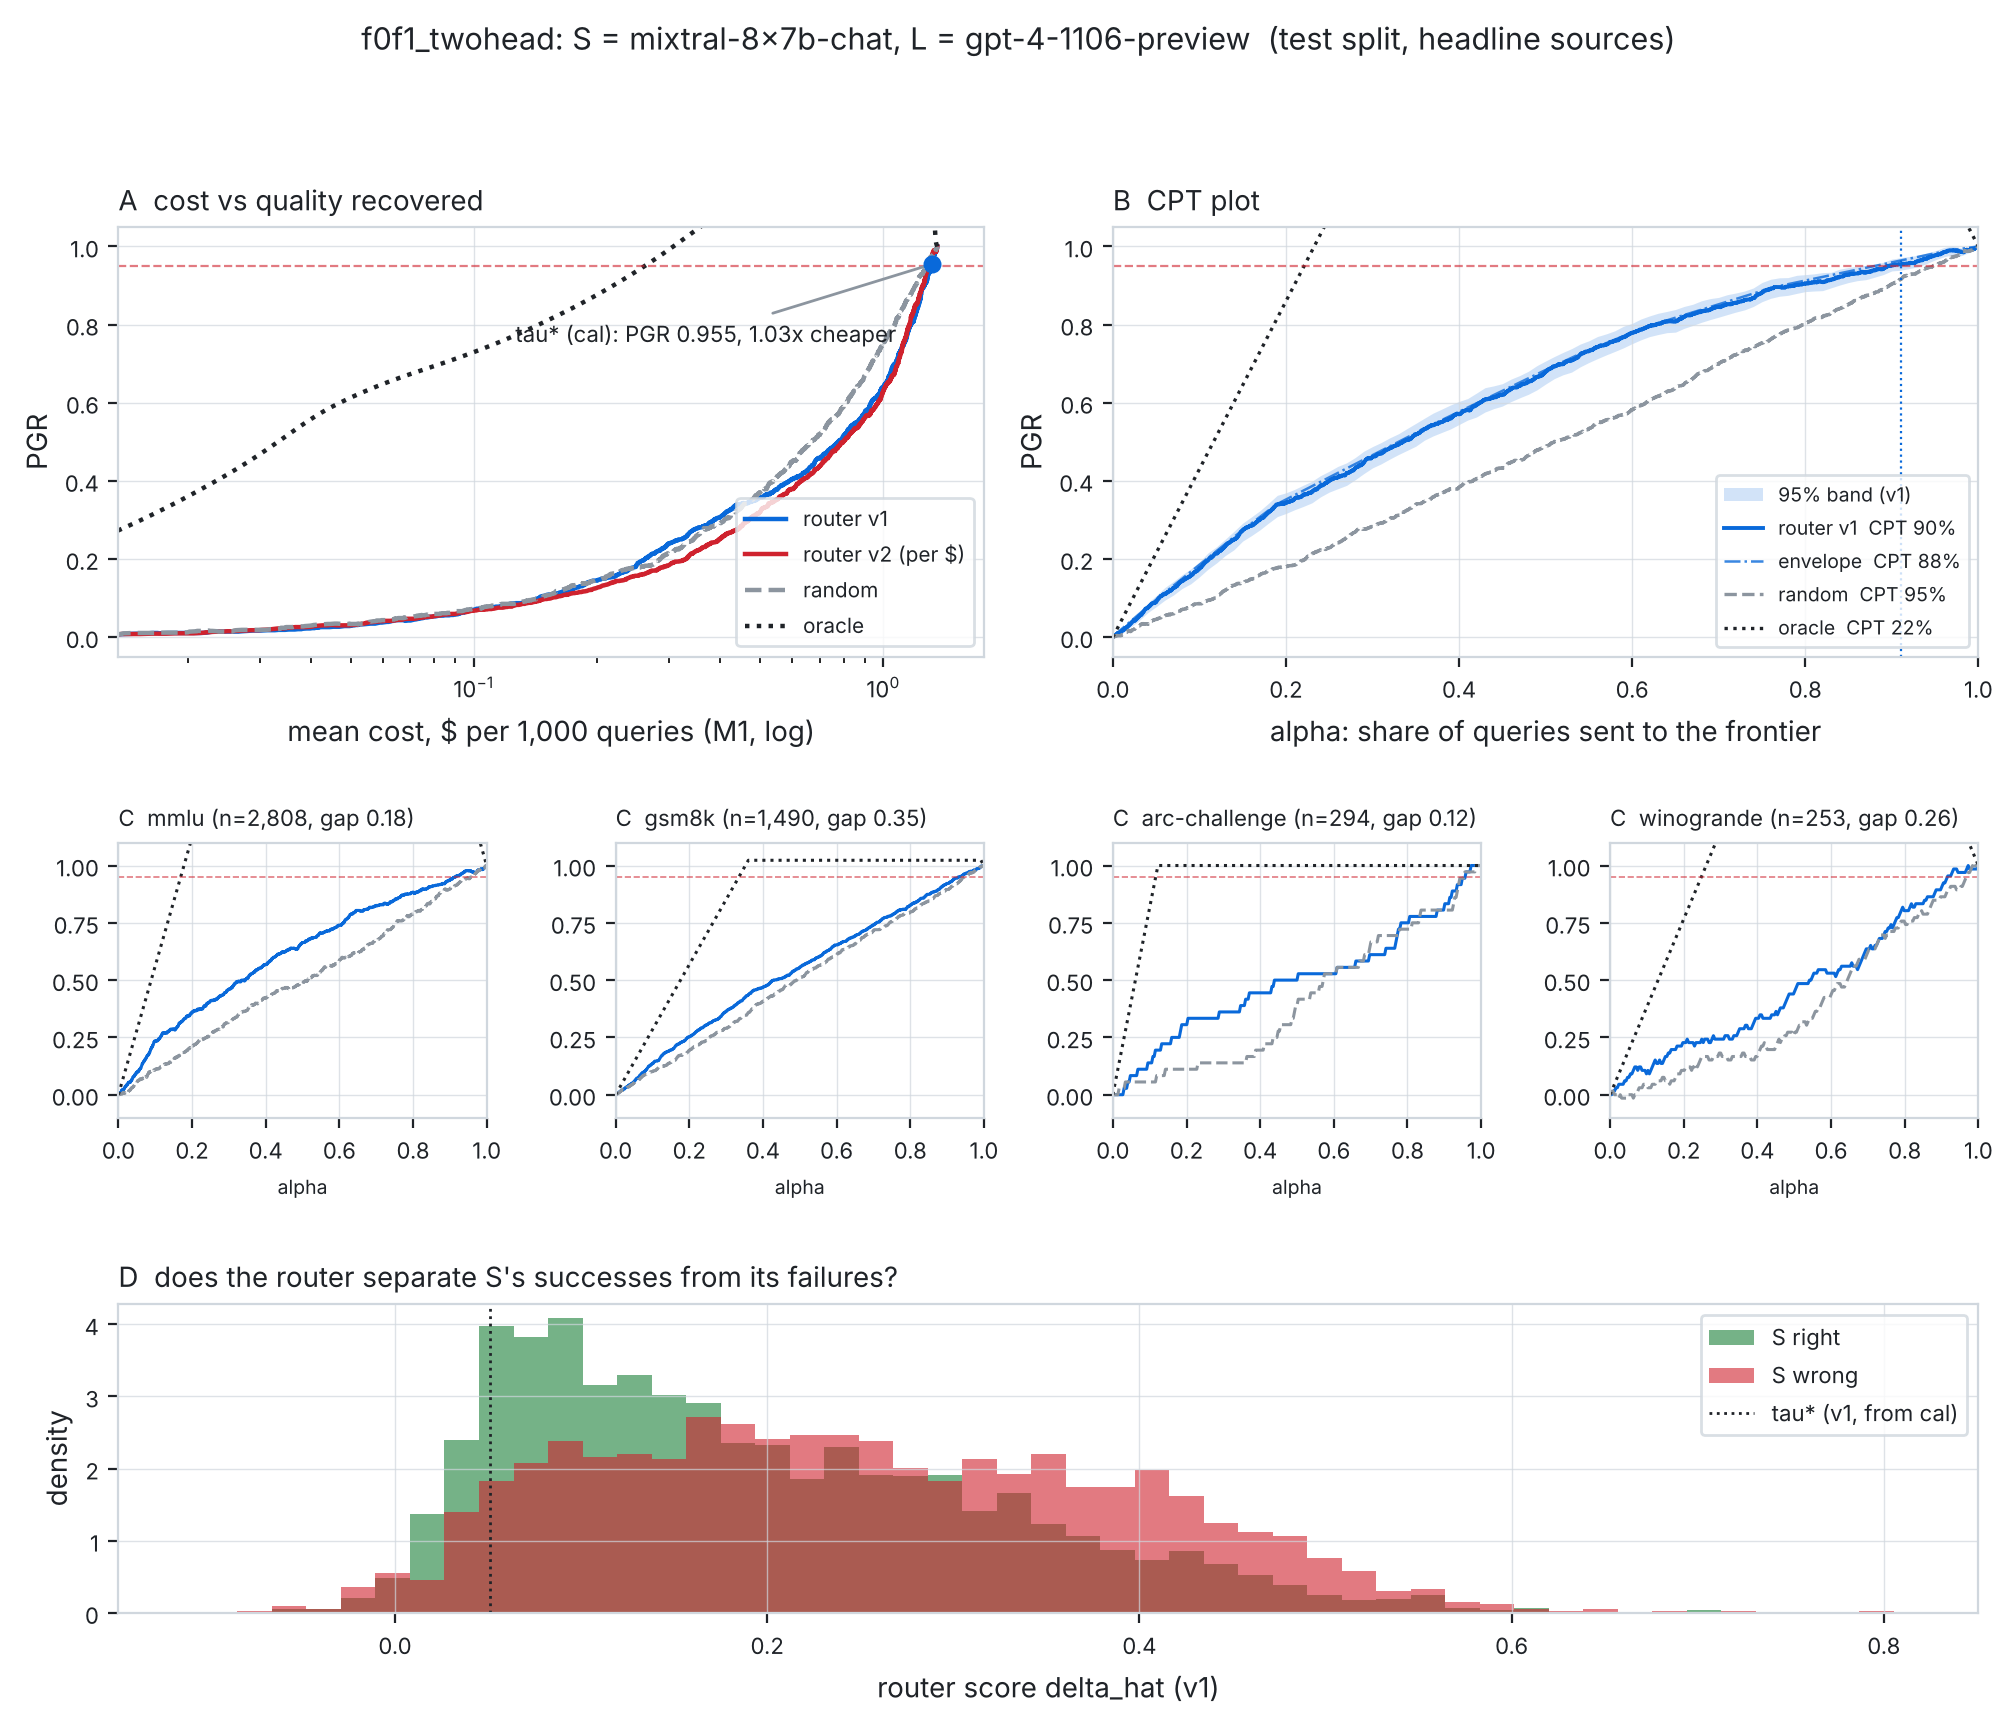
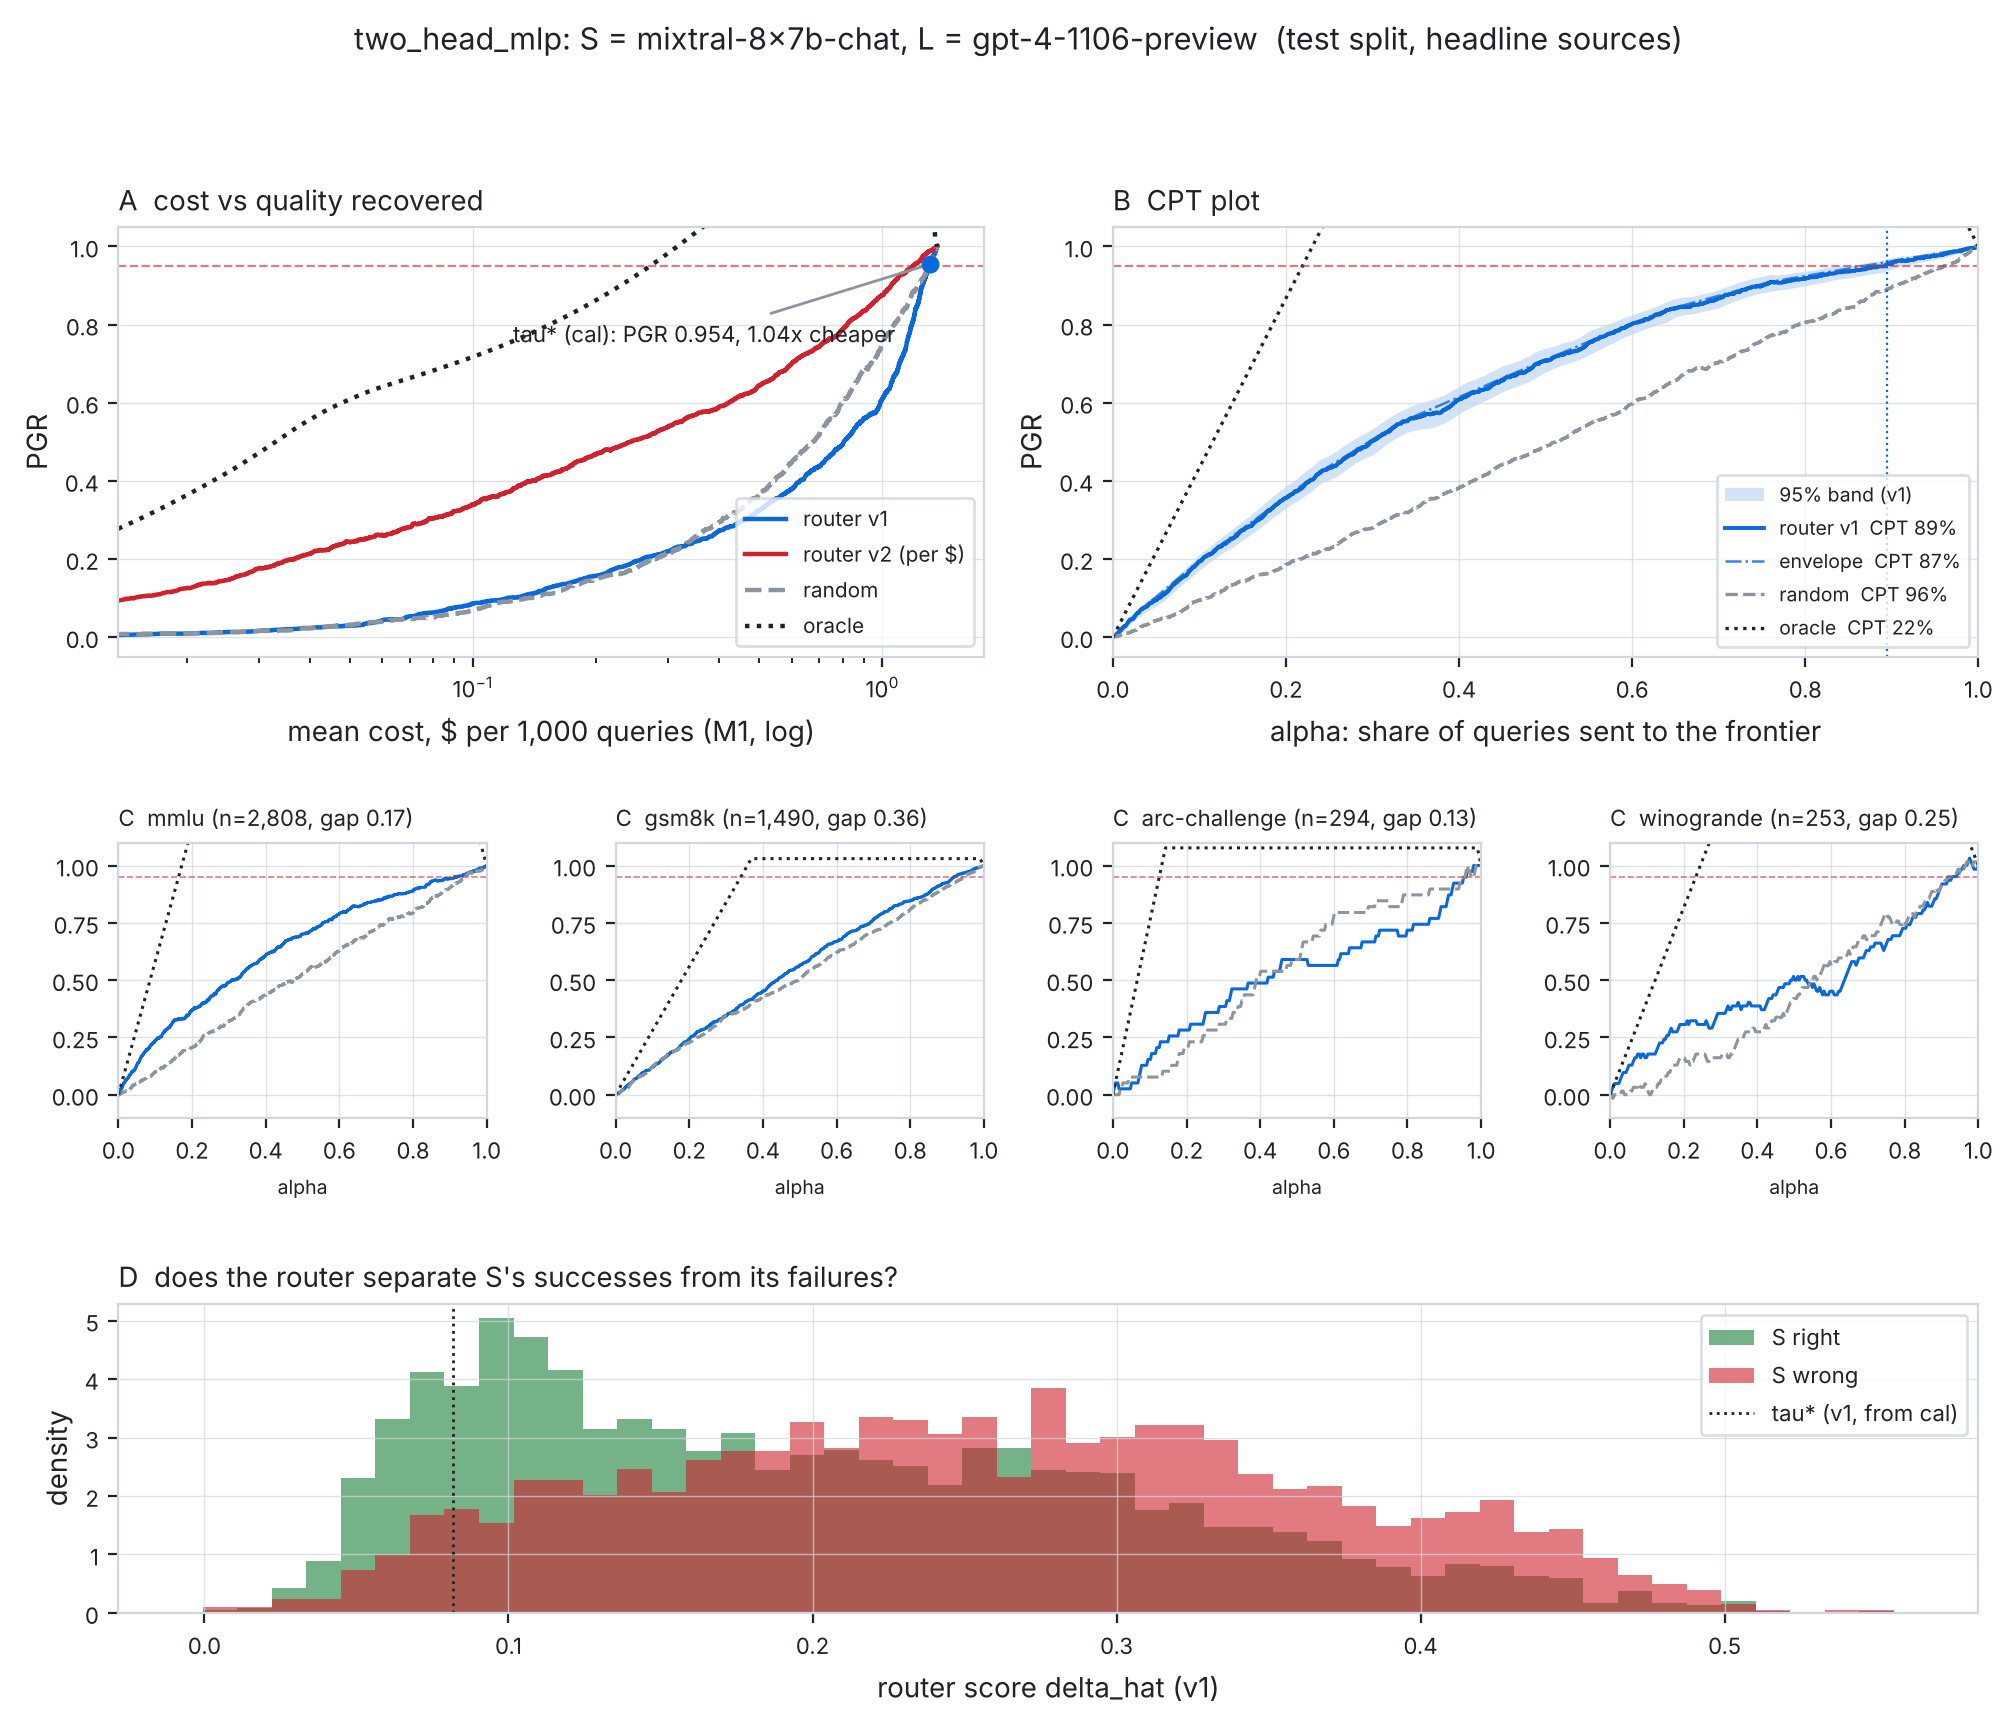
Interim results on frozen splits: F0/F1 baselines and B's F2 two-head (Mixtral pair); report handles prediction files without train rows

diff --git a/scripts/08_threshold_report.py b/scripts/08_threshold_report.py
@@ -61,8 +61,11 @@ def load_frame(pred_path, corpus_path, scores_path, small, large, cost_model="M1
 
 def report_one(df: pd.DataFrame, rule: str, rho: float, delta: float, B: int, seed: int) -> dict:
     tr, ca, te = (df[df["split"] == s] for s in ("train", "cal", "test"))
-    grid = th.threshold_grid(tr[rule].to_numpy(), n=1000)
-    out = {"rule": rule, "n_cal": len(ca), "n_test": len(te), "selections": {}}
+    if len(tr):
+        grid, grid_from = th.threshold_grid(tr[rule].to_numpy(), n=1000), "train"
+    else:   # predictions file has no train rows: fall back to cal's own breakpoints (say so in the report)
+        grid, grid_from = th.breakpoints(ca[rule].to_numpy()), "cal (no train predictions; data-dependent grid)"
+    out = {"rule": rule, "n_cal": len(ca), "n_test": len(te), "grid_from": grid_from, "selections": {}}
     for method in METHODS:
         sel = th.select_tau(ca[rule].to_numpy(), ca["s_S"].to_numpy(), ca["s_L"].to_numpy(), taus=grid,
                             rho=rho, delta=delta, method=method, B=B, seed=seed)
@@ -129,10 +132,14 @@ def to_markdown(rep: dict) -> str:
         for rule in r["rules"]:
             for m, s in rule["selections"].items():
                 t1 = s["test"]["M1"]
-                L.append(f"| {r['router']} | {rule['rule']} | {m} | {'yes' if s['certified'] else 'no'} | "
+                flag = "" if rule.get("grid_from", "train") == "train" else " †"
+                L.append(f"| {r['router']}{flag} | {rule['rule']} | {m} | {'yes' if s['certified'] else 'no'} | "
                          f"{pct(s['cal']['alpha'])} | {pct(t1['alpha'])} | {pct(t1['pgr'])} {ci(t1['ci']['pgr'])} | "
                          f"{pct(t1['savings'])} {ci(t1['ci']['savings'])} | {pct(s['test']['savings_vs_batch'])} | "
                          f"{pct(s['test']['M2']['savings'])} |")
+    if any(rr.get("grid_from", "train") != "train" for r in rep["routers"] for rr in r["rules"]):
+        L.append("\n† No train-split predictions in the file, so the threshold grid came from cal itself. "
+                 "Learn-then-Test is then only approximately valid; write train predictions to fix it.")
     L.append("\n## Test-split curves (no tau selection; for comparing routers)\n")
     L.append("| Router | Rule | CPT(95%) | Envelope CPT(95%) | APGR | Savings at CPT |")
     L.append("|---|---|--:|--:|--:|--:|")

diff --git a/notes/threshold_report.md b/notes/threshold_report.md
@@ -1,64 +1,76 @@
 # Threshold selection and guarantees (T22-T24)
 
-*Generated 2026-10-22 12:46 UTC by `scripts/08_threshold_report.py` from `artifacts/predictions/baselines.parquet`.*
+*Generated 2026-10-22 16:11 UTC by `scripts/08_threshold_report.py` from `artifacts/predictions/all_interim.parquet`.*
 
 Pair: S = `mistralai/mixtral-8x7b-chat`, L = `gpt-4-1106-preview`. Target PGR ≥ 0.95, δ = 0.05. tau* chosen on **cal** only; every test number below is one application of a frozen tau*.
 
 > **INTERIM.** F0/F1 routers only (no embeddings yet) and provisional splits (the embedding dedup pass has not run). The pipeline is final; the numbers are not. Re-run after T04 + F2.
 
-References on the headline test set: random CPT(95%) = 94.8%, APGR 0.492; oracle CPT(95%) = 22.1%, APGR 0.984.
+References on the headline test set: random CPT(95%) = 96.1%, APGR 0.493; oracle CPT(95%) = 21.9%, APGR 0.985.
 
 ## Headline: tau* from cal, applied once to test (MMLU, GSM8K, ARC, Winogrande)
 
 | Router | Rule | Bound | Certified | α cal | α test | PGR test [95% CI] | Savings M1 [CI] | vs Batch | Savings M2 |
 |---|---|---|:-:|--:|--:|--:|--:|--:|--:|
-| f0_logreg | v1 | wsr | yes | 91.2% | 91.8% | 96.2% [94.8, 97.5] | 3.7% [3.3, 4.2] | -92.5% | 3.6% |
-| f0_logreg | v1 | bootstrap | yes | 91.4% | 92.1% | 96.4% [95.0, 97.7] | 3.7% [3.2, 4.1] | -92.6% | 3.6% |
-| f0_logreg | v1 | hoeffding | yes | 94.9% | 95.6% | 98.1% [97.2, 99.2] | 2.8% [2.4, 3.3] | -94.3% | 2.7% |
-| f0_logreg | v1 | naive | yes | 89.7% | 90.2% | 95.7% [94.2, 97.2] | 4.1% [3.6, 4.6] | -91.8% | 4.0% |
-| f0_logreg | v2 | wsr | yes | 93.4% | 92.9% | 97.5% [96.4, 98.7] | 1.1% [1.0, 1.3] | -97.7% | 1.1% |
-| f0_logreg | v2 | bootstrap | yes | 92.5% | 92.1% | 97.2% [96.1, 98.5] | 1.3% [1.2, 1.4] | -97.4% | 1.2% |
-| f0_logreg | v2 | hoeffding | yes | 95.5% | 95.1% | 98.1% [97.2, 99.2] | 0.8% [0.7, 0.9] | -98.5% | 0.7% |
-| f0_logreg | v2 | naive | yes | 90.0% | 89.7% | 95.7% [94.2, 97.2] | 1.7% [1.6, 1.9] | -96.6% | 1.6% |
-| f0f1_twohead | v1 | wsr | yes | 90.4% | 91.1% | 95.5% [94.0, 96.9] | 2.9% [2.6, 3.3] | -94.1% | 2.8% |
-| f0f1_twohead | v1 | bootstrap | yes | 89.8% | 90.7% | 95.4% [93.9, 96.8] | 3.0% [2.7, 3.4] | -93.9% | 2.9% |
-| f0f1_twohead | v1 | hoeffding | yes | 95.3% | 95.5% | 98.0% [96.8, 99.1] | 1.5% [1.3, 1.8] | -96.9% | 1.5% |
-| f0f1_twohead | v1 | naive | yes | 86.5% | 87.4% | 93.6% [91.8, 95.2] | 4.1% [3.7, 4.6] | -91.8% | 4.0% |
-| f0f1_twohead | v2 | wsr | yes | 91.3% | 91.7% | 95.9% [94.3, 97.3] | 3.9% [3.5, 4.5] | -92.2% | 3.8% |
-| f0f1_twohead | v2 | bootstrap | yes | 89.6% | 90.1% | 95.2% [93.4, 96.9] | 4.6% [4.1, 5.2] | -90.9% | 4.4% |
-| f0f1_twohead | v2 | hoeffding | yes | 94.5% | 94.9% | 98.3% [97.2, 99.5] | 2.5% [2.1, 2.9] | -95.0% | 2.4% |
-| f0f1_twohead | v2 | naive | yes | 87.4% | 87.7% | 93.7% [91.9, 95.2] | 5.5% [5.0, 6.2] | -89.0% | 5.3% |
-| f1_logreg | v1 | wsr | yes | 91.7% | 91.7% | 96.7% [95.3, 98.0] | 2.9% [2.5, 3.3] | -94.2% | 2.8% |
-| f1_logreg | v1 | bootstrap | yes | 90.8% | 90.9% | 96.3% [94.8, 97.7] | 3.1% [2.8, 3.5] | -93.8% | 3.0% |
-| f1_logreg | v1 | hoeffding | yes | 95.9% | 96.1% | 98.6% [97.8, 99.3] | 1.5% [1.2, 1.7] | -97.1% | 1.4% |
-| f1_logreg | v1 | naive | yes | 87.7% | 88.0% | 94.7% [92.9, 96.3] | 4.3% [3.9, 4.9] | -91.3% | 4.2% |
-| f1_logreg | v2 | wsr | yes | 93.9% | 93.9% | 97.4% [96.3, 98.5] | 2.2% [1.7, 2.8] | -95.5% | 2.1% |
-| f1_logreg | v2 | bootstrap | yes | 92.6% | 92.6% | 96.2% [95.0, 97.3] | 2.8% [2.2, 3.5] | -94.4% | 2.7% |
-| f1_logreg | v2 | hoeffding | yes | 96.6% | 96.2% | 98.9% [98.2, 99.6] | 1.3% [0.9, 1.6] | -97.5% | 1.2% |
-| f1_logreg | v2 | naive | yes | 91.0% | 90.8% | 95.4% [94.0, 96.7] | 3.4% [2.8, 4.2] | -93.1% | 3.3% |
+| f0_logreg | v1 | wsr | yes | 91.4% | 91.0% | 96.6% [95.3, 97.8] | 3.9% [3.4, 4.4] | -92.2% | 3.8% |
+| f0_logreg | v1 | bootstrap | yes | 90.2% | 89.9% | 95.9% [94.5, 97.2] | 4.1% [3.7, 4.6] | -91.7% | 4.0% |
+| f0_logreg | v1 | hoeffding | yes | 95.4% | 94.6% | 98.0% [97.1, 99.0] | 3.0% [2.5, 3.4] | -94.1% | 2.9% |
+| f0_logreg | v1 | naive | yes | 87.2% | 86.6% | 95.3% [93.7, 96.7] | 4.9% [4.4, 5.4] | -90.3% | 4.7% |
+| f0_logreg | v2 | wsr | yes | 92.3% | 92.0% | 97.0% [95.8, 98.0] | 1.3% [1.2, 1.5] | -97.3% | 1.3% |
+| f0_logreg | v2 | bootstrap | yes | 89.5% | 89.5% | 95.8% [94.3, 97.0] | 1.8% [1.6, 1.9] | -96.5% | 1.7% |
+| f0_logreg | v2 | hoeffding | yes | 95.2% | 94.7% | 98.6% [97.7, 99.4] | 0.9% [0.7, 1.0] | -98.3% | 0.8% |
+| f0_logreg | v2 | naive | yes | 88.5% | 88.8% | 95.4% [93.9, 96.7] | 1.9% [1.7, 2.1] | -96.2% | 1.8% |
+| f0f1_twohead | v1 | wsr | yes | 93.0% | 93.2% | 96.8% [95.4, 98.2] | 2.3% [2.0, 2.7] | -95.3% | 2.3% |
+| f0f1_twohead | v1 | bootstrap | yes | 93.6% | 93.6% | 96.6% [95.3, 98.0] | 2.2% [1.9, 2.5] | -95.6% | 2.1% |
+| f0f1_twohead | v1 | hoeffding | yes | 96.8% | 96.4% | 97.9% [96.8, 99.0] | 1.3% [1.1, 1.6] | -97.4% | 1.3% |
+| f0f1_twohead | v1 | naive | yes | 91.5% | 91.5% | 96.0% [94.5, 97.6] | 2.9% [2.6, 3.3] | -94.2% | 2.8% |
+| f0f1_twohead | v2 | wsr | yes | 94.9% | 93.8% | 95.7% [94.2, 97.1] | 3.7% [3.2, 4.1] | -92.7% | 3.5% |
+| f0f1_twohead | v2 | bootstrap | yes | 93.6% | 92.5% | 95.3% [93.9, 96.9] | 4.3% [3.8, 4.8] | -91.4% | 4.1% |
+| f0f1_twohead | v2 | hoeffding | yes | 96.8% | 96.3% | 98.0% [96.9, 99.1] | 2.3% [1.9, 2.7] | -95.4% | 2.2% |
+| f0f1_twohead | v2 | naive | yes | 90.4% | 89.8% | 94.3% [92.6, 96.1] | 5.3% [4.7, 5.8] | -89.5% | 5.1% |
+| f1_logreg | v1 | wsr | yes | 91.7% | 91.7% | 96.9% [95.5, 98.1] | 2.7% [2.3, 3.0] | -94.7% | 2.6% |
+| f1_logreg | v1 | bootstrap | yes | 90.5% | 90.6% | 96.4% [95.1, 97.6] | 3.0% [2.6, 3.4] | -94.0% | 2.9% |
+| f1_logreg | v1 | hoeffding | yes | 95.0% | 95.6% | 98.3% [97.4, 99.1] | 1.4% [1.2, 1.7] | -97.2% | 1.4% |
+| f1_logreg | v1 | naive | yes | 87.4% | 87.2% | 95.4% [93.8, 96.9] | 4.2% [3.7, 4.7] | -91.7% | 4.0% |
+| f1_logreg | v2 | wsr | yes | 91.6% | 91.7% | 96.5% [95.1, 97.8] | 3.2% [2.6, 3.8] | -93.7% | 3.0% |
+| f1_logreg | v2 | bootstrap | yes | 90.4% | 90.3% | 95.8% [94.3, 97.2] | 4.0% [3.3, 4.7] | -92.0% | 3.8% |
+| f1_logreg | v2 | hoeffding | yes | 95.4% | 95.5% | 97.9% [97.0, 98.8] | 1.9% [1.5, 2.4] | -96.2% | 1.8% |
+| f1_logreg | v2 | naive | yes | 88.9% | 88.7% | 94.9% [93.3, 96.5] | 4.6% [3.8, 5.3] | -90.9% | 4.3% |
+| two_head_mlp † | v1 | wsr | yes | 89.6% | 89.5% | 95.4% [94.0, 96.7] | 4.2% [3.7, 4.7] | -91.7% | 4.0% |
+| two_head_mlp † | v1 | bootstrap | yes | 87.2% | 86.7% | 94.1% [92.5, 95.6] | 4.9% [4.5, 5.5] | -90.1% | 4.8% |
+| two_head_mlp † | v1 | hoeffding | yes | 95.6% | 96.1% | 98.1% [97.2, 99.0] | 1.6% [1.3, 1.9] | -96.8% | 1.5% |
+| two_head_mlp † | v1 | naive | yes | 84.1% | 83.6% | 93.4% [91.7, 95.0] | 5.7% [5.3, 6.3] | -88.5% | 5.6% |
+| two_head_mlp † | v2 | wsr | yes | 96.2% | 96.2% | 96.3% [95.2, 97.5] | 9.4% [7.8, 10.9] | -81.3% | 8.9% |
+| two_head_mlp † | v2 | bootstrap | yes | 95.9% | 95.6% | 95.6% [94.3, 96.8] | 11.0% [9.4, 12.7] | -78.0% | 10.5% |
+| two_head_mlp † | v2 | hoeffding | yes | 97.1% | 97.5% | 98.4% [97.6, 99.2] | 5.6% [4.3, 6.8] | -88.8% | 5.3% |
+| two_head_mlp † | v2 | naive | yes | 95.1% | 95.0% | 95.1% [93.6, 96.4] | 12.7% [11.0, 14.5] | -74.6% | 12.1% |
+
+† No train-split predictions in the file, so the threshold grid came from cal itself. Learn-then-Test is then only approximately valid; write train predictions to fix it.
 
 ## Test-split curves (no tau selection; for comparing routers)
 
 | Router | Rule | CPT(95%) | Envelope CPT(95%) | APGR | Savings at CPT |
 |---|---|--:|--:|--:|--:|
-| f0_logreg | v1 | 89.1% | 88.5% | 0.616 | 4.3% |
-| f0_logreg | v2 | 88.9% | 88.3% | 0.596 | 1.9% |
-| f0f1_twohead | v1 | 89.5% | 88.0% | 0.622 | 3.4% |
-| f0f1_twohead | v2 | 89.8% | 88.6% | 0.622 | 4.7% |
-| f1_logreg | v1 | 88.5% | 88.1% | 0.616 | 4.2% |
-| f1_logreg | v2 | 89.3% | 88.7% | 0.600 | 4.0% |
+| f0_logreg | v1 | 86.2% | 85.8% | 0.629 | 5.0% |
+| f0_logreg | v2 | 87.5% | 87.0% | 0.612 | 2.2% |
+| f0f1_twohead | v1 | 89.7% | 89.2% | 0.618 | 3.5% |
+| f0f1_twohead | v2 | 91.3% | 88.6% | 0.618 | 4.7% |
+| f1_logreg | v1 | 86.6% | 86.2% | 0.613 | 4.4% |
+| f1_logreg | v2 | 88.1% | 87.9% | 0.596 | 4.8% |
+| two_head_mlp | v1 | 89.2% | 86.7% | 0.642 | 4.2% |
+| two_head_mlp | v2 | 95.0% | 93.9% | 0.463 | 12.7% |
 
-## Per source at the best certified tau* (f0f1_twohead, v2, wsr)
+## Per source at the best certified tau* (two_head_mlp, v2, wsr)
 
 | Source | n | Q_S | Q_L | α | PGR | Savings M1 |
 |---|--:|--:|--:|--:|--:|--:|
-| arc-challenge | 294 | 0.854 | 0.976 | 90.8% | 83.3% | 8.0% |
-| gsm8k | 1,490 | 0.603 | 0.956 | 100.0% | 100.0% | 0.0% |
-| hellaswag | 2,008 | 0.403 | 0.831 | 98.3% | 99.0% | 0.8% |
-| mbpp | 85 | 0.494 | 0.694 | 71.8% | 88.2% | 26.8% |
-| mmlu | 2,808 | 0.637 | 0.815 | 86.6% | 92.0% | 19.0% |
-| mt-bench | 16 | 0.669 | 0.944 | 100.0% | 100.0% | 0.0% |
-| winogrande | 253 | 0.545 | 0.806 | 100.0% | 100.0% | 0.0% |
+| arc-challenge | 294 | 0.844 | 0.976 | 100.0% | 100.0% | 0.0% |
+| gsm8k | 1,490 | 0.592 | 0.950 | 93.8% | 94.6% | 9.7% |
+| hellaswag | 2,008 | 0.417 | 0.848 | 100.0% | 100.0% | 0.0% |
+| mbpp | 85 | 0.565 | 0.729 | 30.6% | 28.6% | 79.2% |
+| mmlu | 2,808 | 0.638 | 0.810 | 96.8% | 97.5% | 8.9% |
+| mt-bench | 16 | 0.669 | 0.944 | 18.8% | 56.8% | 95.0% |
+| winogrande | 253 | 0.545 | 0.791 | 100.0% | 100.0% | 0.0% |
 
 HellaSwag (reported separately, D-06) and the small sets (MBPP, MT-Bench) are not in the headline pool. A single tau* is chosen on the pooled headline sources, so per-source PGR varies around the pooled 95%.
 
